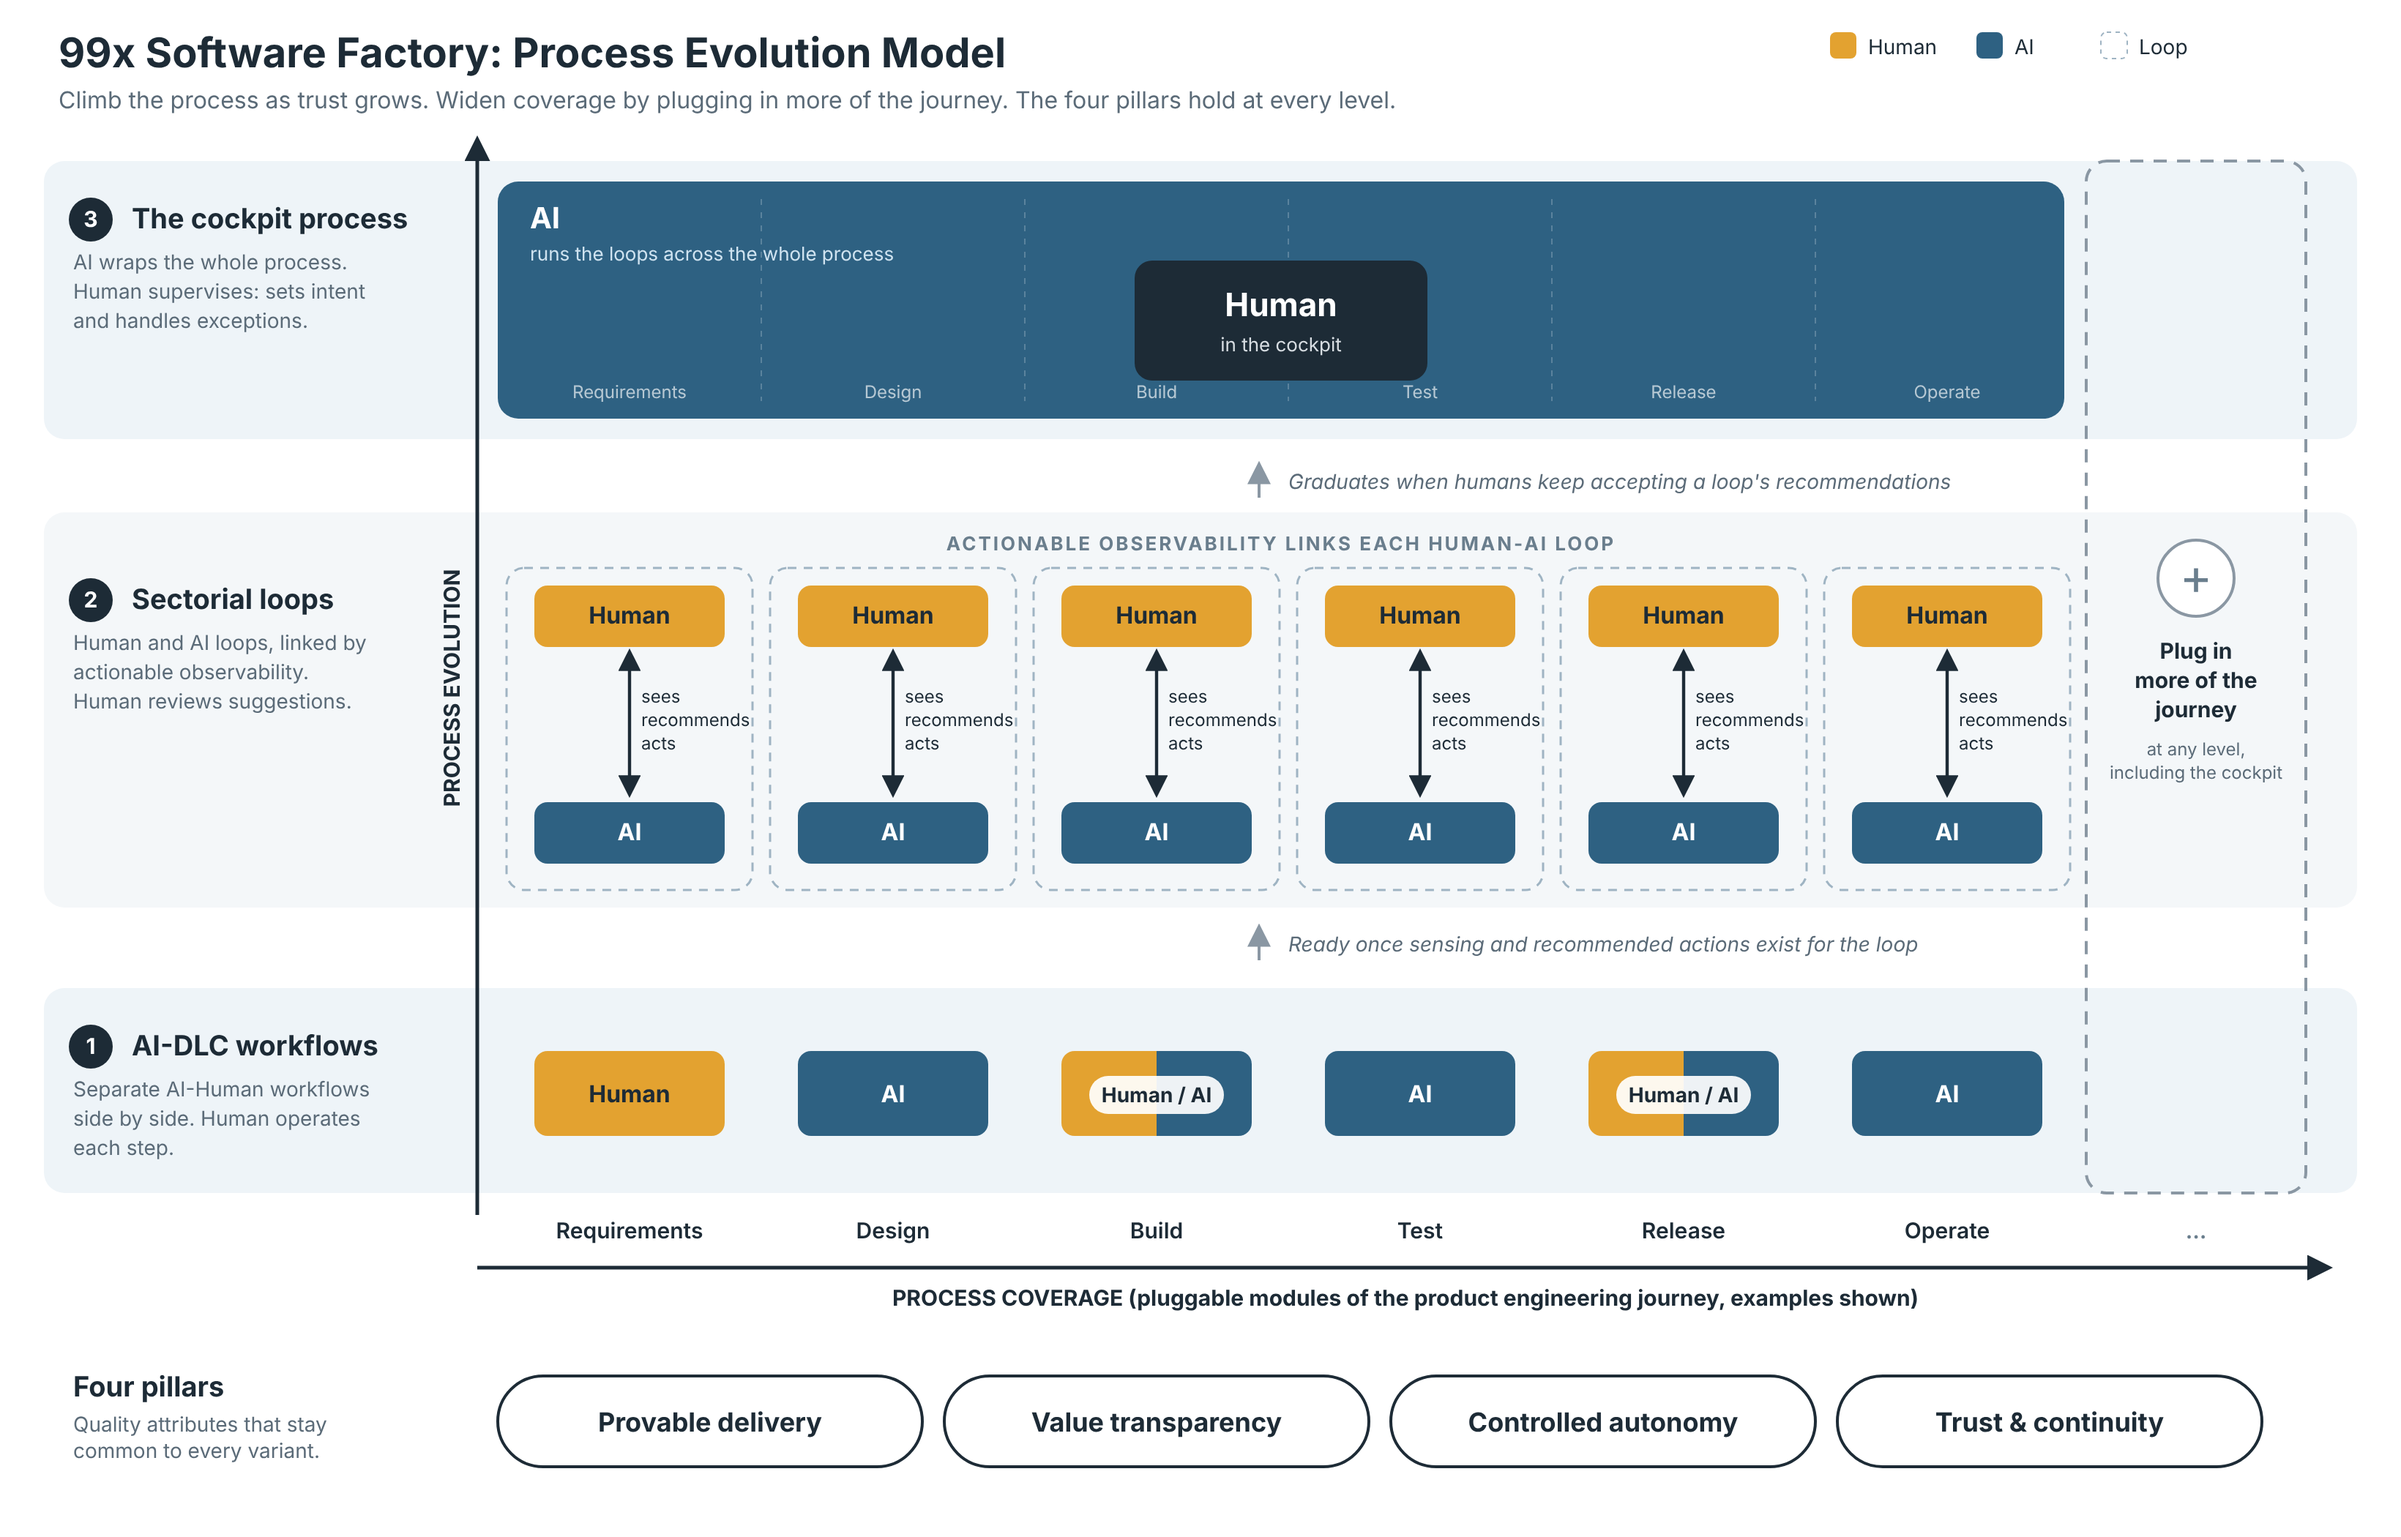
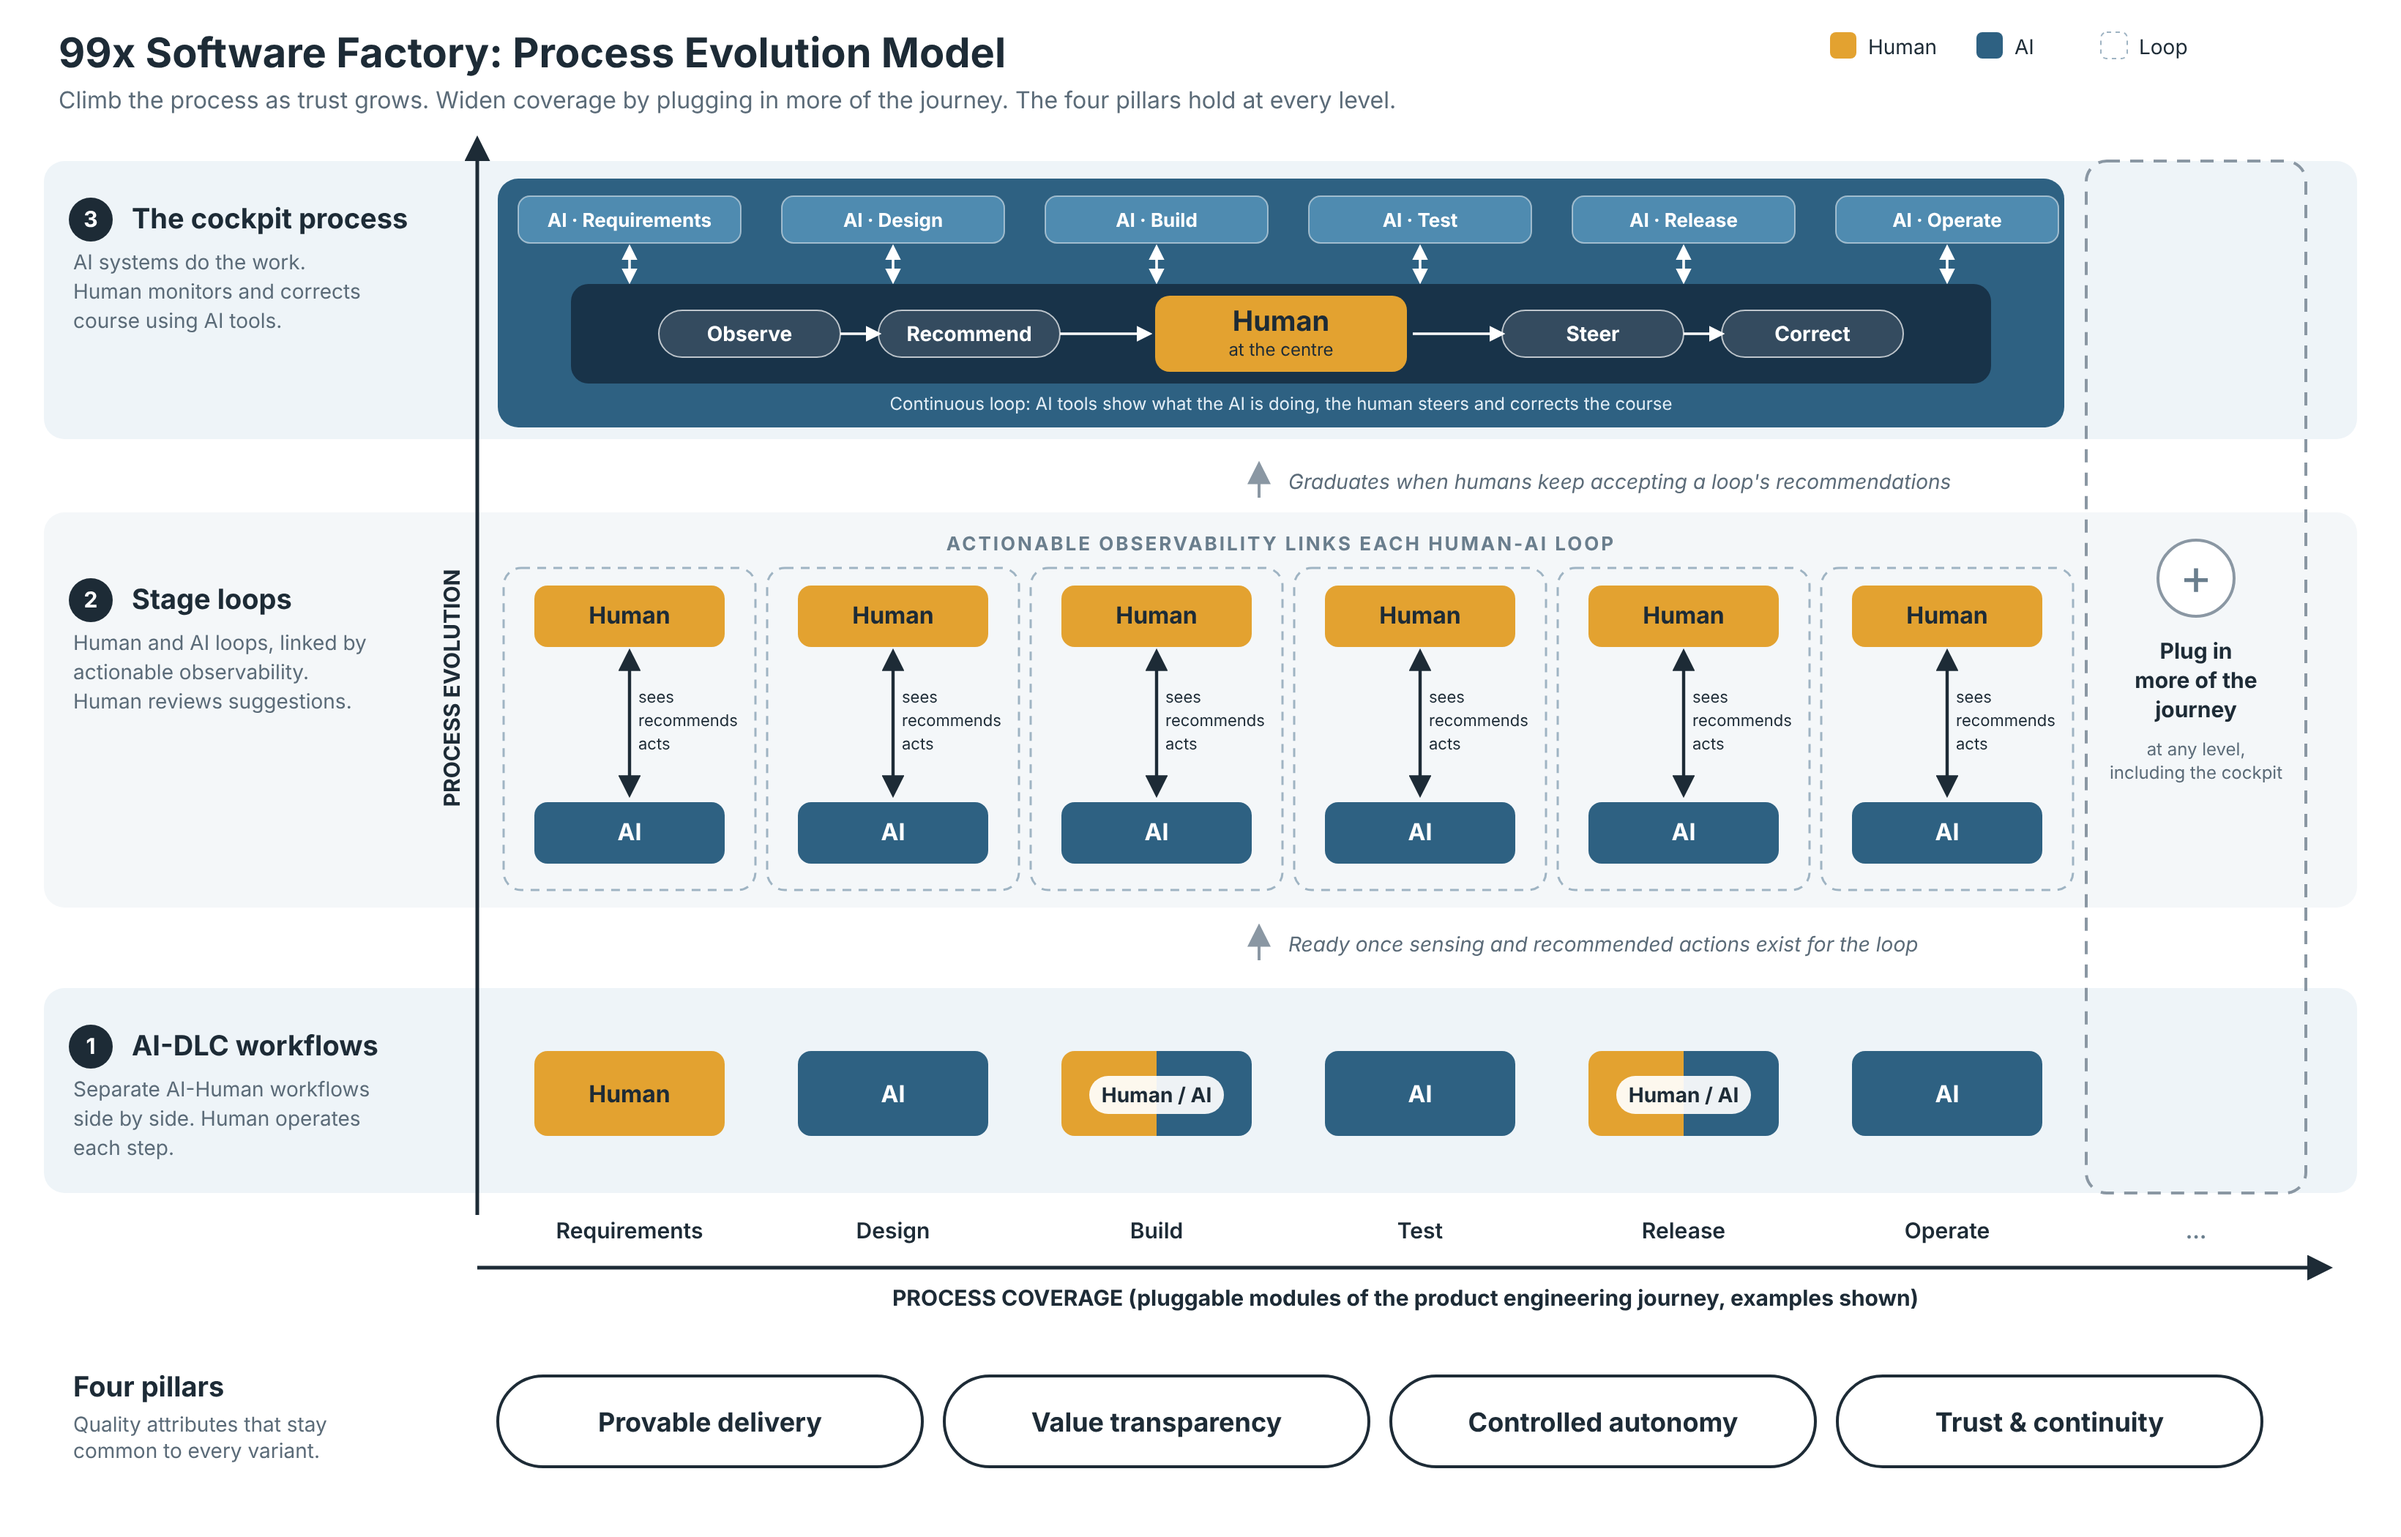
Brainstorming 2

diff --git a/docs/process-evolution-model.md b/docs/process-evolution-model.md
@@ -20,8 +20,8 @@ The whole project climbs together. A client is a point on this grid, not a rung 
 | Variant | What it is | Human role |
 |---|---|---|
 | **1. AI-DLC series AI-Human workflows** | Separate workflows, each done by a human, by AI, or by either. Little connection between them. | Operator of each step |
-| **2. Multi-layer process with sectorial loops** | A human layer above an AI layer, linked by actionable observability. Each loop is a sector of the lifecycle. | Reviewer of recommended actions |
-| **3. The cockpit process** | AI wraps the whole process. The human sits at the centre, steering and intervening. | Supervisor, sets intent and handles exceptions |
+| **2. Multi-layer process with stage loops** | A human layer above an AI layer, linked by actionable observability. Each loop covers one stage of the lifecycle. | Reviewer of recommended actions |
+| **3. The cockpit process** | AI systems do the work across the process. The human at the centre monitors and corrects course continuously, using AI tools to observe, get recommendations, steer and correct. | Supervisor in the cockpit |
 
 ### Actionable observability
 The platform shows information about what the AI layer is doing, then offers recommended actions the human can take through the portal to correct course. It is a sense, recommend, act loop, not a dashboard. This link is what makes variant 2 different from variant 1.
@@ -45,7 +45,7 @@ The four pillars stay common to every variant. They are the quality attributes o
 3. Available budget
 4. The capability of the available tools (this one changes over time without client action)
 
-**Graduation** is decided by evidence. A loop moves up when humans accept its recommended actions at a high rate, sustained over time. Loops graduate independently, so a project can have some sectors at the cockpit level while others are still at variant 2.
+**Graduation** is decided by evidence. A loop moves up when humans accept its recommended actions at a high rate, sustained over time. Loops graduate independently, so a project can have some stages at the cockpit level while others are still at variant 2.
 
 ## 5. Open questions
 
